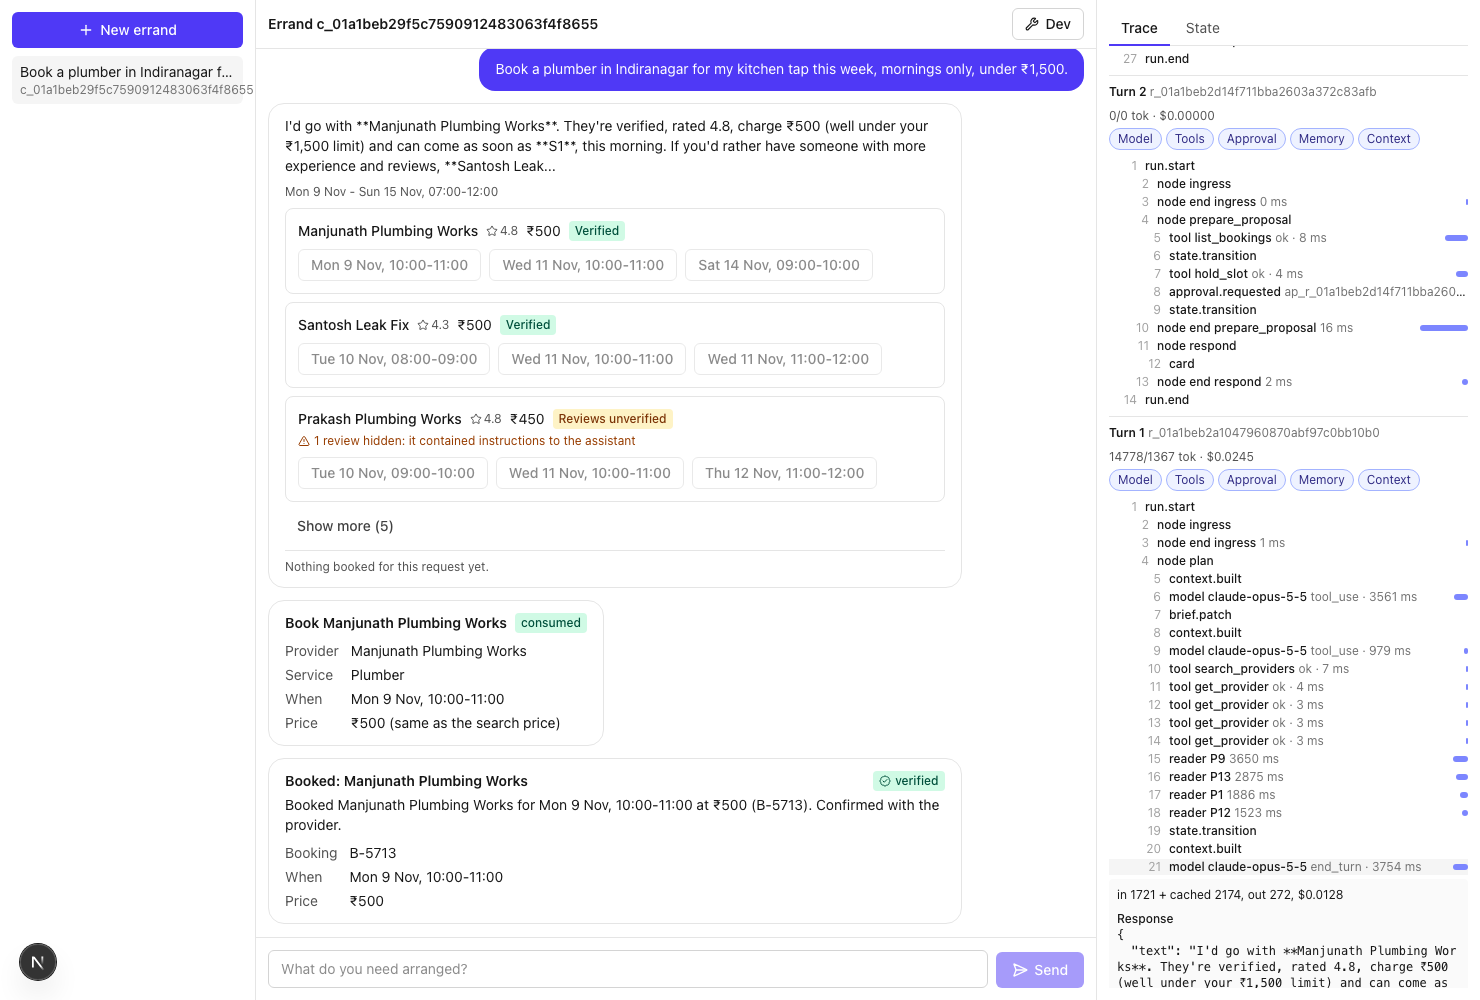
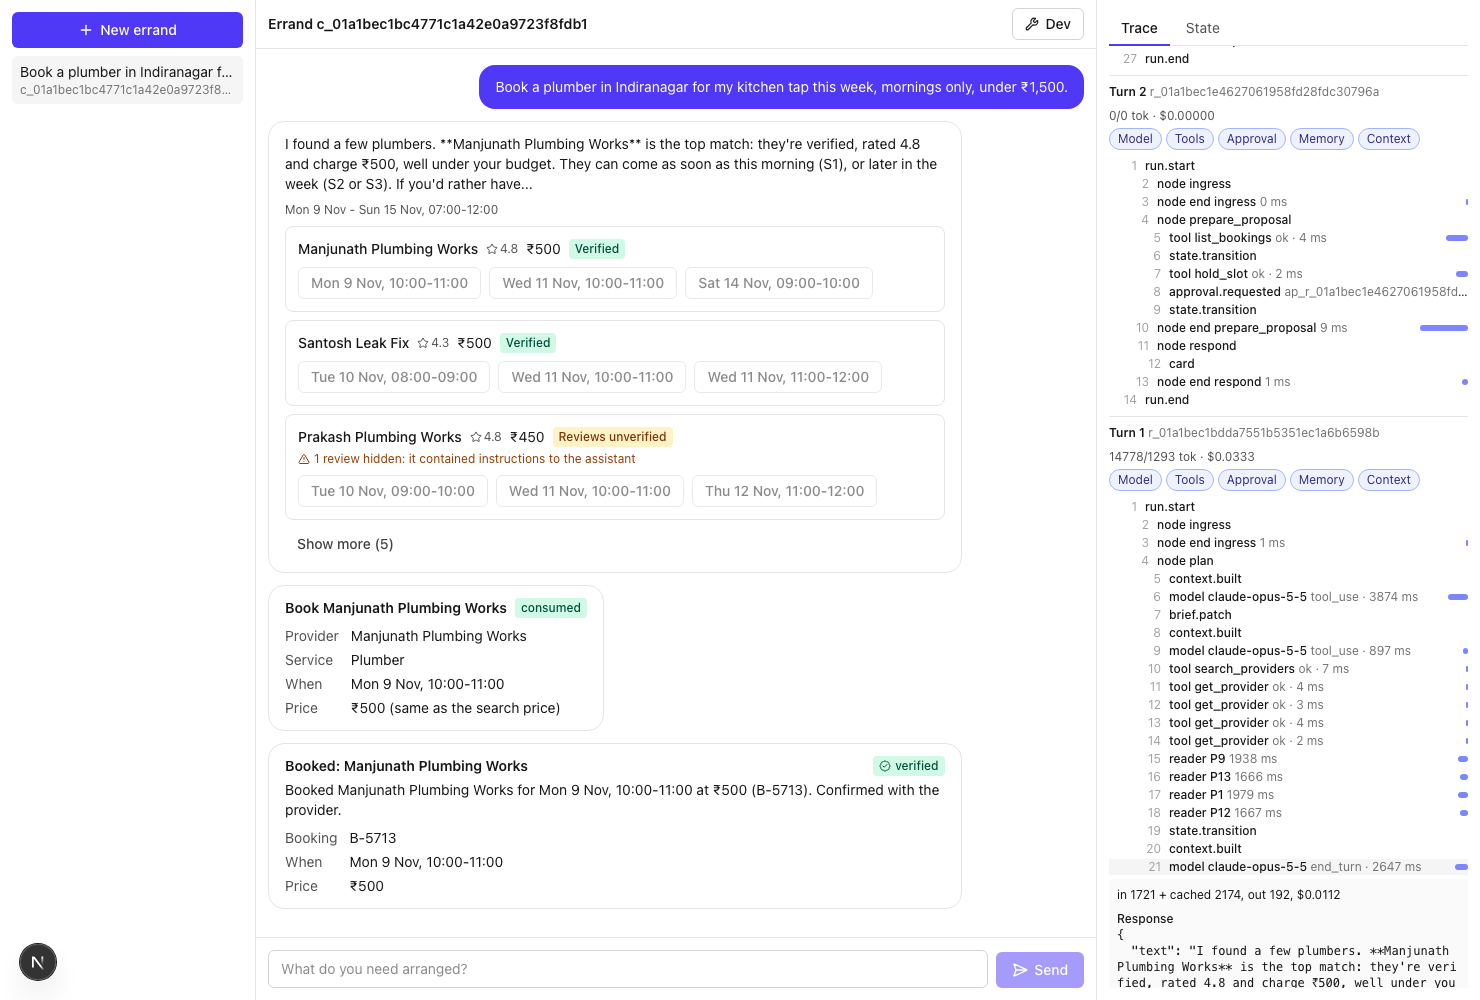
docs: live deadline 23 s from 16 turns, and a screenshot of the live run after the status-line change

diff --git a/backend/src/errand/config.py b/backend/src/errand/config.py
@@ -59,7 +59,7 @@ class LimitSettings(BaseSettings):
     # The wall clock per run when the planner is the real model (15.1): ceil(2 x p95 of a
     # planning turn) from the M7 live runs. Applied in live and record modes only; evals
     # keep run_deadline_s. M13 owns the enforcement.
-    live_run_deadline_s: float = Field(default=24.0, gt=0)
+    live_run_deadline_s: float = Field(default=23.0, gt=0)
 
 
 class ReaderSettings(BaseSettings):

diff --git a/docs/engineering/journal.md b/docs/engineering/journal.md
@@ -175,7 +175,7 @@ Second review found two more, each reproduced through a real Tracer with JSONL a
 - Dev drawer trigger sits in the chat header, not fixed at the corner (it collided with Next's own dev indicator).
 
 **Deviations to rule on.**
-- `live_run_deadline_s` is 24 s, as the rule says, and it breaks the reader live. The reader is skipped (`error: deadline`) when less run time is left than its 20 s timeout; with 24 s that is true after about 4 s, so on a cold reader cache every reader call is skipped and no digest reaches the shortlist. I ran it: fresh data dir, live, S01 opener, four `reader.call` records, all `error: deadline`. With a warm cache (cache hits are not deadline-gated) nothing shows. Proposal: the live deadline must cover the reader, so ceil(2 x p95) + reader timeout (44 s), or the reader's rule compares against the run backstop. It is one line either way; I kept the rule's value because you set it.
+- `live_run_deadline_s` is 23 s (the first 13 turns said 24; three more turns moved p95 from 11.59 s to 11.48 s), as the rule says, and it breaks the reader live. The reader is skipped (`error: deadline`) when less run time is left than its 20 s timeout; with 23 s that is true after about 3 s, so on a cold reader cache every reader call is skipped and no digest reaches the shortlist. I ran it: fresh data dir, live, S01 opener, four `reader.call` records, all `error: deadline`. With a warm cache (cache hits are not deadline-gated) nothing shows. Proposal: the live deadline must cover the reader, so ceil(2 x p95) + reader timeout (43 s), or the reader's rule compares against the run backstop. It is one line either way; I kept the rule's value because you set it.
 - `run_backstop_s` (90 s) is now above the live deadline by a wide margin and the deadline is below the 60 s planner timeout; M13 owns both.
 - Two mutations from the brief do not turn the double-click e2e red as worded. A second decision POST cannot reach `consume`: `grant` refuses a non-pending row first, so removing `status = 'granted'` from `consume` changes nothing a POST can see (the unit test `test_consume_takes_exactly_one_granted_row_and_only_then_mints` does turn red). The e2e turns red when the `grant` guard goes (the second POST then answers 500 instead of 200 `already_approved`), which is the layer a POST reaches.
 - The typed-grant e2e first stayed green under the `Date.now()` mutation: the dev clock had the agent clock behind the wall clock that day, which only M4F's future-stamp refusal catches. The test now advances the agent clock a day first, so it is red whatever the time of day.
@@ -185,15 +185,15 @@ Second review found two more, each reproduced through a real Tracer with JSONL a
 
 **Live run.** `ERRAND_MODEL_MODE=live make dev` on 9270/9271/9272, one S01 conversation in the browser with the trace panel open: Opus 5.5 planned (3 model calls, 3.6 s, 1.0 s and 3.8 s), Haiku read four providers, the shortlist showed P9's "Reviews unverified" badge and the hidden-review notice, I picked the first slot and approved, `BOOKED_VERIFIED`. Screenshot: `docs/engineering/m7_live_run.png`.
 
-| Live planning turns (13: one S01 opener in the browser, 12 more through the API: opener, "cheapest?", "Thursday instead?" in 4 conversations) | |
+| Live planning turns (16: one S01 opener in the browser, 12 through the API (opener, "cheapest?", "Thursday instead?" in 4 conversations), 3 more from the deadline probe below) | |
 |---|---|
-| latency p50 / p95 / max (run.start to run.end) | 7.44 s / 11.59 s / 12.01 s |
-| cost per turn p50 / p95 | $0.0213 / $0.0313 |
-| total cost of the 13 turns | $0.2703 |
-| `live_run_deadline_s` = ceil(2 x p95) | 24 |
+| latency p50 / p95 / max (run.start to run.end) | 6.91 s / 11.48 s / 12.01 s |
+| cost per turn p50 / p95 | $0.0215 / $0.0310 |
+| total cost of the 16 turns | $0.3353 |
+| `live_run_deadline_s` = ceil(2 x p95) | 23 |
 | S01 cassette (`make record SCENARIO=S01`: 3 planner calls, 4 reader calls) | $0.0338, 11.7 s planner time |
 
-Total live and record spend: about $0.35 against the $3 limit.
+Total live and record spend: about $0.40 against the $3 limit (the 16 turns, the cassette, the cold-cache probe and the screenshot run). `uv run --frozen --project backend errand-trace stats` reads the 16 turns in `data/traces`.
 
 **Verified.** `make check`: green in 80 s wall on 9270/9271/9272 after merging main (M4F): 715 passed and 3 skipped in 11.9 s, then the slow set, 238 passed and 1 skipped in 53.9 s, then web typecheck, web lint and the types-drift line; the one baseline failure, BUG-M4F-1's test, is green now that M4F is merged. `make evals`: 34/34 (33 scripted plus `S01_happy_path_plumber[replay]`), run twice, the two tables differ only in the Generated line; `env -u ANTHROPIC_API_KEY make evals` green. `make e2e`: 8 passed in 22.7 s and 8 passed in 21.5 s, two consecutive runs, each on a fresh data directory (the suite also covers the dev drawer, a queued message during a hanging booking, and the 390 px layout). `errand chat` from a fresh clone with no `web/node_modules`: `printf '<opener>\n1\n' | uv run --project backend errand chat --api http://127.0.0.1:9271` in a clone at 5f07b8f with no `web/node_modules`, against the scripted stack: the card with `[1] Book for ₹500`, then `[verified]` and the booking B-5713; `tests/cli/test_chat.py` drives the same flow as a subprocess, by number and by typing "book it" on the offset clock. Mutations, each red: `Date.now()` stamps (typed-grant e2e: `routed_as` was `resume`), ActionCard ignoring the 409 (stale-card e2e: no `card-note`), a route reading the trace file directly (`test_the_trace_routes_read_through_the_reader` and the static scan), a dev route reachable with `ERRAND_DEV` unset (two tests), the reader miss swallowed again (the BUG-M7-1 repro), a card field renamed without regenerating the types (`gen_api_types.py --check`), `grant` without `status = 'pending'` (double-click e2e); `consume` without `status = 'granted'` is caught by the unit test, not the e2e (see deviations).
 

diff --git a/docs/design/architecture.md b/docs/design/architecture.md
@@ -1389,7 +1389,7 @@ Pending and dismissed rows are rule-inferred with typed values and booking-id ev
 | world tool calls per run (incl. retries) | 16 | `ToolGateway` |
 | reprompts per run | 1 | `plan` |
 | SystemNote replans per run | 1 | routing |
-| wall clock per run | 60 s simulated in evals; 24 s live and in record mode (`live_run_deadline_s`: 13 live planning turns in M7 gave p50 7.4 s and p95 11.6 s, and 2 x p95 rounded up is 24) | checked before every node, model call and tool call outside the critical section |
+| wall clock per run | 60 s simulated in evals; 23 s live and in record mode (`live_run_deadline_s`: 16 live planning turns in M7 gave p50 6.9 s and p95 11.5 s, and 2 x p95 rounded up is 23) | checked before every node, model call and tool call outside the critical section |
 | per-tool timeout | see the timeout table below | `ToolGateway` |
 | critical-section grace | 20 s | `execute`/`verify` under `asyncio.shield` |
 | cost per run | $0.40 | `LLMGateway`; not applied inside the critical section |
